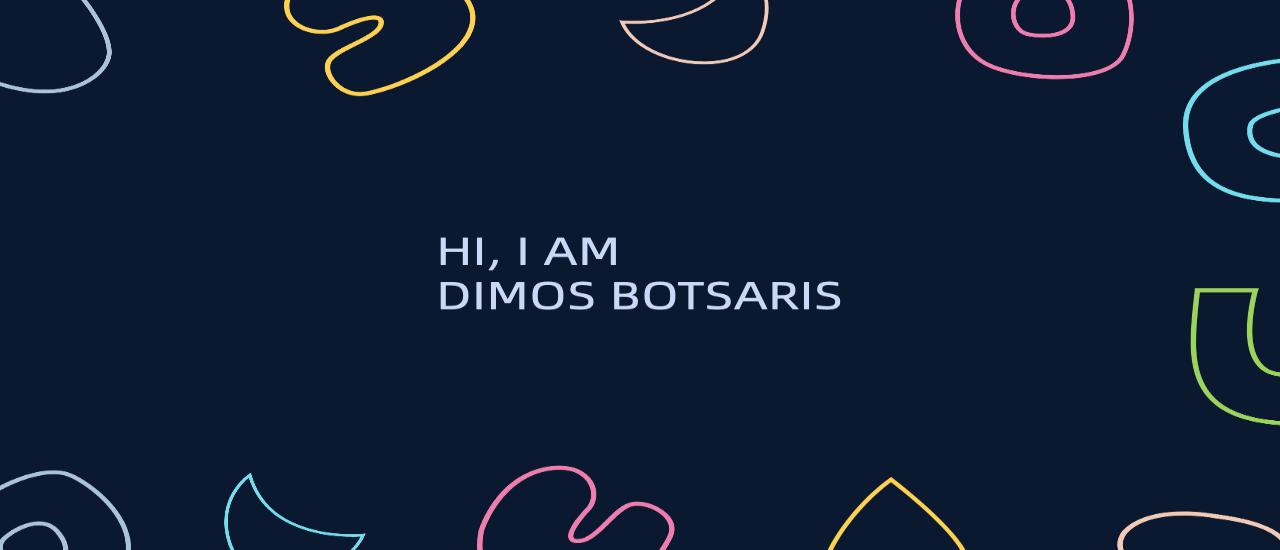
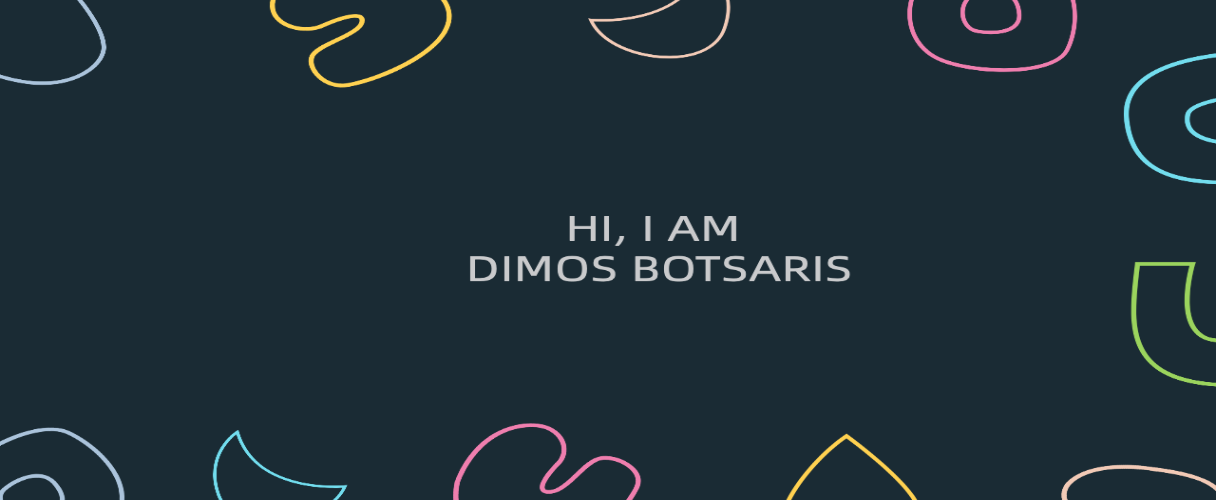
update background

diff --git a/README.md b/README.md
@@ -15,11 +15,11 @@ I’m Dimos, a senior full-stack engineer, who specializes in back-end developme
 <br>
 
 <a href="https://github.com/eldimious">
-  <img align="center" style="margin:0.5rem" src="https://github-readme-stats.vercel.app/api/top-langs/?username=eldimious&hide=html,css&title_color=ffffff&text_color=ccd6f6&icon_color=64ffda&bg_color=0a192f" />
+  <img align="center" style="margin:0.5rem" src="https://github-readme-stats.vercel.app/api/top-langs/?username=eldimious&hide=html,css&title_color=ffffff&text_color=c9cacc&icon_color=4AB097&bg_color=1A2B34" />
 </a>
 
 <a href="https://github.com/eldimious">
-  <img align="center" style="margin:0.5rem" src="https://github-readme-stats.vercel.app/api?username=eldimious&show_icons=true&line_height=27&count_private=true&title_color=ffffff&text_color=ccd6f6&icon_color=64ffda&bg_color=0a192f&hide=prs,contribs" alt="Martin's GitHub Stats" />
+  <img align="center" style="margin:0.5rem" src="https://github-readme-stats.vercel.app/api?username=eldimious&show_icons=true&line_height=27&count_private=true&title_color=ffffff&text_color=c9cacc&icon_color=4AB097&bg_color=1A2B34&hide=prs,contribs" alt="Martin's GitHub Stats" />
 </a>
 
 <br>
@@ -114,39 +114,39 @@ I’m Dimos, a senior full-stack engineer, who specializes in back-end developme
 <br>
 
 <a href="https://github.com/eldimious/network-avatar-picker">
-  <img align="center" style="margin:0.5rem" src="https://github-readme-stats.vercel.app/api/pin/?username=eldimious&repo=network-avatar-picker&title_color=ffffff&text_color=ccd6f6&icon_color=64ffda&bg_color=0a192f" />
+  <img align="center" style="margin:0.5rem" src="https://github-readme-stats.vercel.app/api/pin/?username=eldimious&repo=network-avatar-picker&title_color=ffffff&text_color=c9cacc&icon_color=4AB097&bg_color=1A2B34" />
 </a>
 <a href="https://github.com/eldimious/nodejs-api-showcase">
-  <img align="center" style="margin:0.5rem" src="https://github-readme-stats.vercel.app/api/pin/?username=eldimious&repo=nodejs-api-showcase&title_color=ffffff&text_color=ccd6f6&icon_color=64ffda&bg_color=0a192f" />
+  <img align="center" style="margin:0.5rem" src="https://github-readme-stats.vercel.app/api/pin/?username=eldimious&repo=nodejs-api-showcase&title_color=ffffff&text_color=c9cacc&icon_color=4AB097&bg_color=1A2B34" />
 </a>
 
 <br>
 <br>
 
 <a href="https://github.com/eldimious/throw-http-errors">
-  <img align="center" style="margin:0.5rem" src="https://github-readme-stats.vercel.app/api/pin/?username=eldimious&repo=throw-http-errors&title_color=ffffff&text_color=ccd6f6&icon_color=64ffda&bg_color=0a192f" />
+  <img align="center" style="margin:0.5rem" src="https://github-readme-stats.vercel.app/api/pin/?username=eldimious&repo=throw-http-errors&title_color=ffffff&text_color=c9cacc&icon_color=4AB097&bg_color=1A2B34" />
 </a>
 
 <a href="https://github.com/eldimious/js-notes">
-  <img align="center" style="margin:0.5rem" src="https://github-readme-stats.vercel.app/api/pin/?username=eldimious&repo=js-notes&title_color=ffffff&text_color=ccd6f6&icon_color=64ffda&bg_color=0a192f" />
+  <img align="center" style="margin:0.5rem" src="https://github-readme-stats.vercel.app/api/pin/?username=eldimious&repo=js-notes&title_color=ffffff&text_color=c9cacc&icon_color=4AB097&bg_color=1A2B34" />
 </a>
 
 <br>
 <br>
 
 <a href="https://github.com/eldimious/couchbase-server-promises">
-  <img align="center" style="margin:0.5rem" src="https://github-readme-stats.vercel.app/api/pin/?username=eldimious&repo=couchbase-server-promises&title_color=ffffff&text_color=ccd6f6&icon_color=64ffda&bg_color=0a192f" />
+  <img align="center" style="margin:0.5rem" src="https://github-readme-stats.vercel.app/api/pin/?username=eldimious&repo=couchbase-server-promises&title_color=ffffff&text_color=c9cacc&icon_color=4AB097&bg_color=1A2B34" />
 </a>
 
 <a href="https://github.com/eldimious/golang-api-showcase">
-  <img align="center" style="margin:0.5rem" src="https://github-readme-stats.vercel.app/api/pin/?username=eldimious&repo=golang-api-showcase&title_color=ffffff&text_color=ccd6f6&icon_color=64ffda&bg_color=0a192f" />
+  <img align="center" style="margin:0.5rem" src="https://github-readme-stats.vercel.app/api/pin/?username=eldimious&repo=golang-api-showcase&title_color=ffffff&text_color=c9cacc&icon_color=4AB097&bg_color=1A2B34" />
 </a>
 
 <br>
 <br>
 
 <a href="https://github.com/arconsis/aws-network-microservices-warmup">
-  <img align="center" style="margin:0.5rem" src="https://github-readme-stats.vercel.app/api/pin/?username=arconsis&repo=aws-network-microservices-warmup&title_color=ffffff&text_color=ccd6f6&icon_color=64ffda&bg_color=0a192f" />
+  <img align="center" style="margin:0.5rem" src="https://github-readme-stats.vercel.app/api/pin/?username=arconsis&repo=aws-network-microservices-warmup&title_color=ffffff&text_color=c9cacc&icon_color=4AB097&bg_color=1A2B34" />
 </a>
 
 <br>
